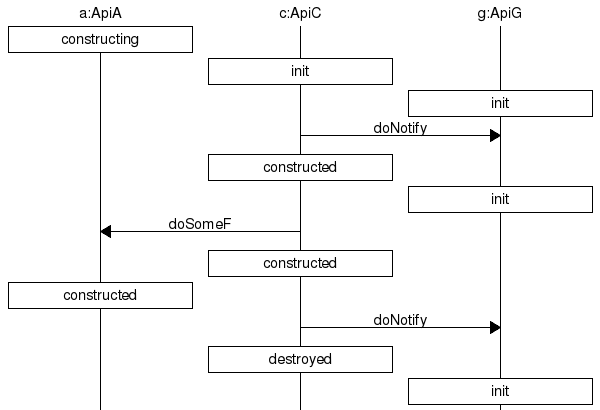
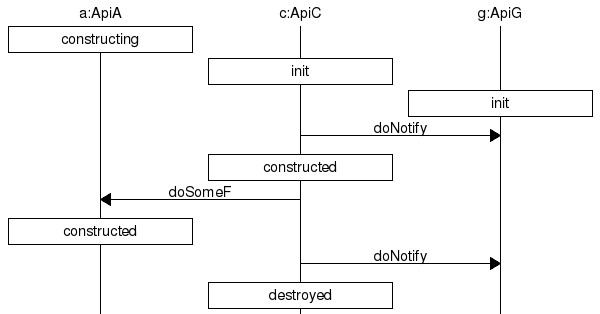
minimize state change rendition

diff --git a/parseif.py b/parseif.py
@@ -268,14 +268,16 @@ class IfParser:
             #Render current message, and the state change after send
             f.write("    %s=>%s [label=\"%s\"];\n" % (s.sendFrom, s.sendTo, s.sendMsg))
 
-            senderState = self.nextOnSend( i, s.sendFrom, actorStates[ s.sendFrom ], s.sendMsg )
-            actorStates[ s.sendFrom ] = senderState
-
-            receiverState = self.nextOnRecv( i, s.sendTo,   actorStates[ s.sendTo   ], s.sendMsg )
-            actorStates[ s.sendTo   ] = receiverState
-
-            f.write("    %s box %s [label=\"%s\"];\n" % (s.sendFrom, s.sendFrom, senderState))           
-            f.write("    %s box %s [label=\"%s\"];\n" % (s.sendTo,   s.sendTo,   receiverState))           
+            oldSenderState = actorStates[ s.sendFrom ]
+            senderState = self.nextOnSend( i, s.sendFrom, oldSenderState, s.sendMsg )
+            if oldSenderState != senderState:
+                actorStates[ s.sendFrom ] = senderState
+                f.write("    %s box %s [label=\"%s\"];\n" % (s.sendFrom, s.sendFrom, senderState))           
+            oldReceiverState = actorStates[ s.sendTo ]
+            receiverState = self.nextOnRecv( i, s.sendTo, oldReceiverState, s.sendMsg )
+            if oldReceiverState != receiverState:
+                actorStates[ s.sendTo   ] = receiverState
+                f.write("    %s box %s [label=\"%s\"];\n" % (s.sendTo,   s.sendTo,   receiverState))           
         f.write("}\n")
 
     def mscgenRender(self, fname):
